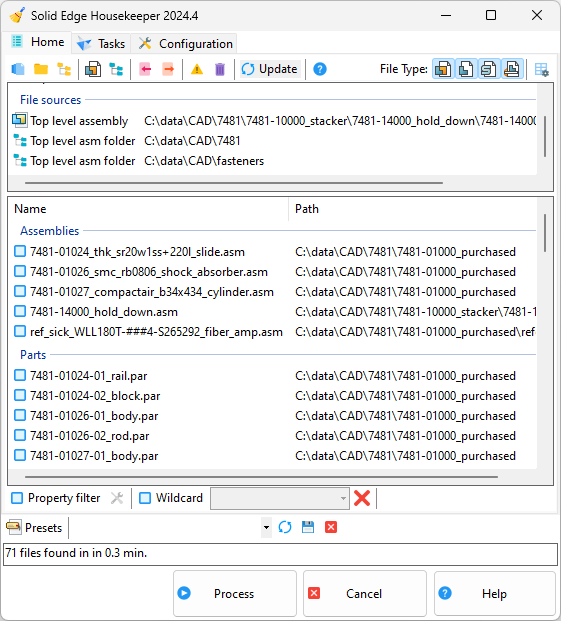
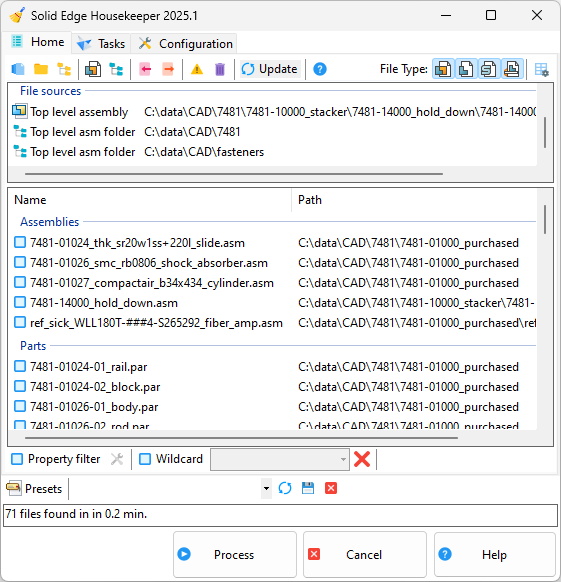
Documentation

Changed region(s): [[0.0, 0.0, 1.0, 1.0], [0.9394, 0.0, 0.9697, 0.0309]]

diff --git a/release_notes.md b/release_notes.md
@@ -2,7 +2,7 @@
   <p align=center>
   <img src="My%20Project/media/logo.png" width=50%;>
   <p align=center>
-  <span class="description">Robert McAnany 2024</span>
+  <span class="description">Robert McAnany 2025</span>
 </div>
 
 # Release Notes
@@ -16,33 +16,39 @@ Feel free to report bugs and/or ideas for improvement on the [<ins>**Solid Edge 
 ## V2025.1 Enhancements/Fixes
 
 ### Presets
-Concept by **@Francesco Arfilli**, **@MMTrebuchet**, and others.  Thank you!
 
-Presets are a way to save any setup changes you make in the course of using the program.  
+Presets are a way to capture any setup changes you make in the course of using the program.  (Thank you **@Francesco Arfilli**, **@mmtrebuchet**, and others!)
 
 ![Tabs](My%20Project/media/presets.png)
 
-Presets come in handy when you have to perform the same series of steps as part of your job.  An example might be releasing a project.  You probably need to make sure every part has a drawing, models and drawings are up to date, output files have been generated, etc., etc.  Each step takes a certain amount of setup.  You might have to change property filters, select different tasks, tweak options, and so on.  
+Presets help you perform recurring tasks you may encounter as part of your job.  An example might be when releasing a project.  You probably need to make sure files are up to date, parts have drawings, output files have been generated, etc., etc.  Each step takes a certain amount of setup, for example enabling a property filter, selecting tasks, tweaking options, and so on. 
 
-Using Presets, you can capture that work one time.  At each step in the process, you simply choose the appropriate Preset and you're ready to go.  It saves a bit of time, but more importantly it can cut down on costly mistakes and delays.
+Using Presets, you can capture that work one time.  The next time it comes up, you simply choose the appropriate Preset and you're ready to go.  It saves a bit of time, but more importantly it can cut down on costly mistakes and delays.
 
 See the [<ins>**Presets Help Topic**</ins>](https://github.com/rmcanany/SolidEdgeHousekeeper/#presets) for details.
 
-### Property Selection
+### File List
+Contributed by **@Francesco Arfilli**.  Thank you!
 
-Properties are now read from your templates.  Localized names, where used, are employed.
+Added the ability to customize the list.
+- File properties can now be displayed on the list.  
+- Properties can be edited and changed in place.  
+- The list can be sorted by column.  
+- The list can be saved in CSV format.  (Thank you **@CareFrame1**!)
+- File groups are collapsible.
+- File grouping is optional.
 
-<p align="center">
-  <img src="My%20Project/media/customize_property_list.png">
-</p>
+![Insert Property](My%20Project/media/file_list_properties.png)
 
-Wherever in the program a property formula can be used, the properties are presented in a drop down, or accessible via right click, depending on the circumstances.  In the image below, the user performed a right click to add a second property to the subdirectory formula.
+Added a new input source, Individual Files, to the file selection options.  This can be a time saver if you are faced with a large directory listing and already know the file's name.  Simply start typing the name in the dialog's text box and it will automatically filter the list for you.
 
-![Insert Property](My%20Project/media/insert_property.png)
+![Insert Property](My%20Project/media/file_list_individual_files.png)
 
-In previous versions, only text type properties were supported.  Now all types are. (Thank you **@Francesco Arfilli**!)
+Added feedback to notify the user that some files in the list are selected (which the program interprets as the only files that need to be processed).  The process button text changes from **Process** to **Process Selected**.  (Thank you **@64Pacific**!)
 
-See the [<ins>**Templates Page Help Topic**</ins>](https://github.com/rmcanany/SolidEdgeHousekeeper/#templates-page) for details.
+Fixed an issue where encountering a read-only directory was keeping a Folders and Subfolders Search from processing to completion.
+
+See the [<ins>**File List Options Help Topic**</ins>](https://github.com/rmcanany/SolidEdgeHousekeeper/#file-list-options) for details.
 
 ### File Server Query
 Contributed by **@Francesco Arfilli**.  Thank you!
@@ -53,27 +59,26 @@ Added the ability to query a server to access properties.
 
 See the [<ins>**Server Query Help Topic**</ins>](https://github.com/rmcanany/SolidEdgeHousekeeper/#server-query-page) for details.
 
-### File List
-Contributed by **@Francesco Arfilli**.  Thank you!
+### Property Selection
 
-File properties can now be displayed on the file list.  They can be edited and changed in place.  The list can be sorted by column.
+Added processing of localized property names where applicable.
 
-![Insert Property](My%20Project/media/file_list_properties.png)
+Expanded the ability to select properties, either from a drop down or shortcut menu, in all areas where properties can be used.  Previously, that was only available with `Property Filter` and `Edit Properties`.
 
-Added a new input source, Individual Files, to the file selection options.  This can be a time saver if you are faced with a large directory listing and already know the file's name.  Simply start typing the name in the File name text box and it will automatically filter the list for you.
+Added support for all property variable types.  Previously, only text type properties were supported. (Thank you **@Francesco Arfilli**!)
 
-![Insert Property](My%20Project/media/file_list_individual_files.png)
+In `Edit Variables` added the ability to use a property in the `Number/Formula` field.
 
-See the [<ins>**File List Options Help Topic**</ins>](https://github.com/rmcanany/SolidEdgeHousekeeper/#file-list-options) for details.
+
+See the [<ins>**Templates Page Help Topic**</ins>](https://github.com/rmcanany/SolidEdgeHousekeeper/#templates-page) and [<ins>**Edit Variables Help Topic**</ins>](https://github.com/rmcanany/SolidEdgeHousekeeper/#edit-variables) for details.
 
 ### Set Document Status
-Concept by **@Francesco Arfilli**.  Thank you!
 
-Added a new Task to set document status.
+Added a new Task to set document status.  (Thank you **@Francesco Arfilli**!)
 
 ![Insert Property](My%20Project/media/task_set_document_status.png)
 
-Since a file can become read-only with certain status changes, the command runs outside of Solid Edge.  Because it uses Microsoft's Structured Storage to make the change, it is between 100x and 400x faster than Solid Edge.
+Since a file can become read-only with certain status changes, the command runs outside of Solid Edge.  Because it uses Microsoft's Structured Storage to make the change, it is 100x to 400x faster than Solid Edge.
 
 The previous capability `Process as Available` can still be used.  With it, you have the option to revert the file to the previous status after processing.
 
@@ -83,8 +88,27 @@ See the [<ins>**Set Document Status Help Topic**</ins>](https://github.com/rmcan
 
 Added the option to run this command without Solid Edge.  As with `Set Document Status`, it uses Microsoft's Structured Storage with equivalent speed increases.
 
-Added the same option to `Check Part Number Does Not Match Filename`, `Check Missing Drawing`, and `Check Material Not In Material Table`.
+Added the same option to `Part Number Does Not Match Filename`, `Missing Drawing`, and `Material Not In Material Table`.
 
+See the [<ins>**Check Links Help Topic**</ins>](https://github.com/rmcanany/SolidEdgeHousekeeper/#check-links) for details.
+
+### Save Model As
+
+Added the ability to change the file name itself when saving.  (Thank you **@pkoevesdi**, **@Jojo15702**, **@ih0nza**!)
+
+The name can be drawn from one or more properties in the file.  As with the subdirectory feature, if the property contains any characters that are not valid in file names, they are replaced using the filename_charmap.txt lookup table.
+
+Added the same option to `Save Drawing As`.
+
+See the [<ins>**Save Model As Help Topic**</ins>](https://github.com/rmcanany/SolidEdgeHousekeeper/#save-model-as) for details.
+
+### Top Level Assembly
+
+Fixed an issue where Family of Parts Masters (and all their links) were included in Top Down searches.
+
+### Documentation
+
+Added a Table of Contents to the Readme file to improve navigation.  (Thank you **@Francesco Arfilli**!)
 
 ## V2024.3 Enhancements/Fixes
 

diff --git a/README.md b/README.md
@@ -6,13 +6,13 @@
 </div>
 
 **Contributors:**
-@[Francesco Arfilli] (github @farfilli), @daysanduski, @mmtrebuchet (github), @[o_o ....码], @ChrisNC (github @ChrisClems), @ZaPpInG (github @lrmoreno007), @aalian.khan8036 (@AalianKhan  github)
+**@[Francesco Arfilli] (github @farfilli), @daysanduski, @mmtrebuchet (github), @[o_o ....码], @ChrisNC (github @ChrisClems), @ZaPpInG (github @lrmoreno007), @aalian.khan8036 (@AalianKhan  github)**
 
 **Beta Testers:**
-@JayJay04, @Cimarian_RMP, @n0minus38, @xenia.turon, @MonkTheOCD_Engie, @HIL, @[Robin BIoemberg], @[Jan Bos], @Rboyd347, @Jojo15702, @ih0nza
+**@JayJay04, @Cimarian_RMP, @n0minus38, @xenia.turon, @MonkTheOCD_Engie, @HIL, @[Robin BIoemberg], @[Jan Bos], @Rboyd347, @Jojo15702, @ih0nza**
 
 **Helpful feedback and bug reports:**
-@Satyen, @n0minus38, @wku, @aredderson, @bshand, @TeeVar, @SeanCresswell, @Jean-Louis, @Jan_Bos, @MonkTheOCD_Engie, @[mike miller], @[Francesco Arfilli], @[Martin Bernhard], @[Derek G], @Chris42, @JasonT, @Bob Henry, @JayJay04, @nate.arinta5649, @DaveG, @tempod, @64Pacific, @ben.steele6044, @KennyG, @Alex_H, @Nosybottle, @Seva, @HIL, @[o_o ....码], @roger.ribamatic, @jnewell, @[Robin BIoemberg], @Pedro0996, @Imre Szucs, @Bert303, @gir.isi, @BrianVR74, @CareFrame1, @RBoyd347, @[Artur Sampaio], @pkoevesdi, @Jojo15702, @chjchen, @FERNANDO-DALLAGNOLO 
+**@Satyen, @n0minus38, @wku, @aredderson, @bshand, @TeeVar, @SeanCresswell, @Jean-Louis, @Jan_Bos, @MonkTheOCD_Engie, @[mike miller], @[Francesco Arfilli], @[Martin Bernhard], @[Derek G], @Chris42, @JasonT, @Bob Henry, @JayJay04, @nate.arinta5649, @DaveG, @tempod, @64Pacific, @ben.steele6044, @KennyG, @Alex_H, @Nosybottle, @Seva, @HIL, @[o_o ....码], @roger.ribamatic, @jnewell, @[Robin BIoemberg], @Pedro0996, @Imre Szucs, @Bert303, @gir.isi, @BrianVR74, @CareFrame1, @RBoyd347, @[Artur Sampaio], @pkoevesdi, @Jojo15702, @chjchen, @FERNANDO-DALLAGNOLO, @ih0nza**
 
 **Notice:**
 *Portions adapted from code by Jason Newell, Tushar Suradkar, Greg Chasteen, and others.  Most of the rest copied verbatim from Jason's repo or Tushar's blog.*
@@ -466,7 +466,7 @@ Speaking of `task_list.json`, like any other file in the Preferences directory, 
 
 ## Presets
 
-Presets are a way to save any setup changes you make in the course of using the program. 
+Presets are a way to capture any setup changes you make in the course of using the program. 
 
 ![Tabs](My%20Project/media/presets.png)
 
@@ -474,9 +474,9 @@ To create a Preset, set up the program as desired, enter a name then click Save.
 
 To capture the task settings themselves (which you almost always want), before saving, be sure to enable the `Remember selected tasks between sessions` option on the **Configuration Tab -- General Page**.
 
-Presets come in handy when you have to perform the same series of steps as part of your job.  An example might be releasing a project.  You probably need to make sure every part has a drawing, models and drawings are up to date, output files have been generated, etc., etc.  Each step takes a certain amount of setup.  You might have to change property filters, select different tasks, tweak options, and so on.  
+Presets help you perform recurring tasks you may encounter as part of your job.  An example might be when releasing a project.  You probably need to make sure files are up to date, parts have drawings, output files have been generated, etc., etc.  Each step takes a certain amount of setup, for example enabling a property filter, selecting tasks, tweaking options, and so on. 
 
-Using Presets, you can capture that work one time.  At each step in the process, you simply choose the appropriate Preset and you're ready to go.  It saves a bit of time, but more importantly it can cut down on costly mistakes and delays.
+Using Presets, you can capture that work one time.  The next time it comes up, you simply choose the appropriate Preset and you're ready to go.  It saves a bit of time, but more importantly it can cut down on costly mistakes and delays.
 
 As a practical matter, I have found that creating a baseline Preset, I call mine `_Default`, is helpful.  It's a known starting point for creating new ones.  It's also a quick, reliable way to set back up for everyday use of the program.
 
@@ -735,7 +735,9 @@ The Variable name is required.  There are restrictions on the name.  It cannot s
 
 If a variable on the list is not in the file, it can optionally be added.  Set the behavior on the Options panel. 
 
-The number/formula is not required if only exposing an existing variable, otherwise it is.  If a formula references a variable not in the file, the program will report an error.  You can use a file property in the formula.  Right-click the formula text box and select Insert Property to do so.  
+The number/formula is not required if only exposing an existing variable, otherwise it is.  If a formula references a variable not in the file, the program will report an error.
+
+You can use a file property in the formula.  Right-click the formula text box and select Insert Property to do so.  Note, the property is a static copy.  If it changes, this command needs to be run again to update the variable.  
 
 If exposing a variable, the Expose name defaults to the variable name. You can optionally change it.  The Expose name does not have restrictions like the variable name. 
 
